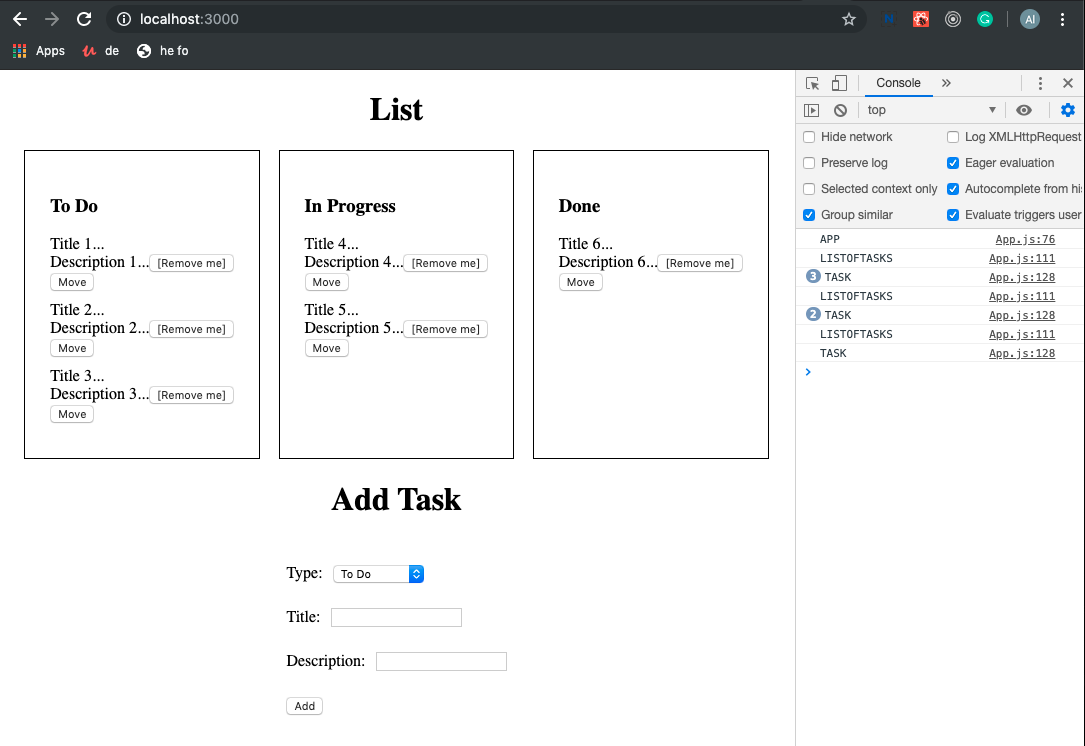
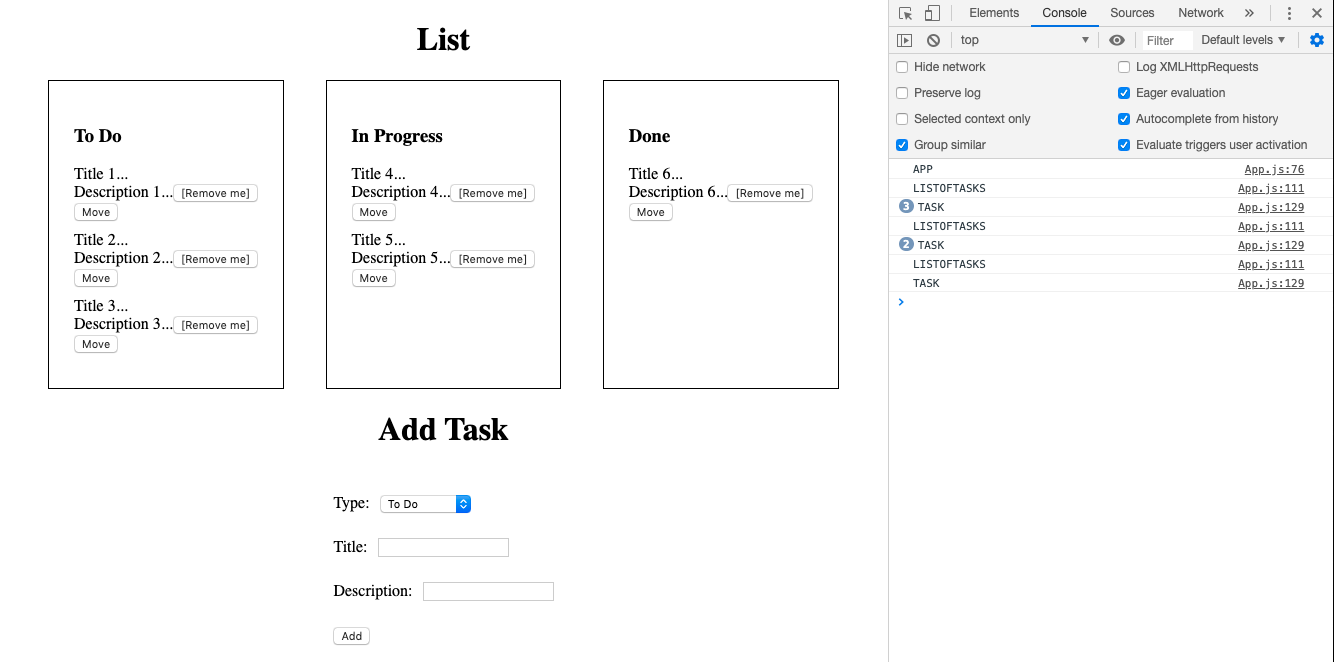
react.memo

diff --git a/src/App.js b/src/App.js
@@ -1,7 +1,7 @@
 import React, { Component } from 'react';
 import './App.css'
 
-class App extends Component {
+class App extends React.PureComponent {
 
  state = {
   toDo: [
@@ -107,7 +107,7 @@ listOfStatusKeys = Object.keys(this.listOfStatus)
  }
 }
 
-const ListOfTasks = props => {
+const ListOfTasks = React.memo(props => {
   console.log('LISTOFTASKS')
   return (
     <div className="column border padding25">
@@ -122,10 +122,10 @@ const ListOfTasks = props => {
         }
     </div>
   )
-}
+})
 
 
-const Task = props => {
+const Task = React.memo(props => {
   console.log('TASK')
   return (
     <div style={{ marginBottom: 10 }}>
@@ -142,7 +142,7 @@ const Task = props => {
       </div>
     </div>
   )
-}
+})
 
 const AddTask = props => {
 

diff --git a/README.md b/README.md
@@ -31,6 +31,24 @@ However, what happens if we remove a task...?
 
 ![After removing a task](images/removing-task.png)
 
-You can see that everything renders again, but that particular task. 
+You can verify that everything renders again, but that particular task. 
 
 In this small application we will not suffer "performance issues", yet, we can improve its efficiency. 
+
+So... Let's use `React.memo()`
+
+> React.memo is a higher order component. It’s similar to React.PureComponent but for function components instead of classes.
+If your function component renders the same result given the same props, you can wrap it in a call to React.memo for a performance boost in some cases by memoizing the result. This means that React will skip rendering the component, and reuse the last rendered result.
+By default it will only shallowly compare complex objects in the props object. If you want control over the comparison, you can also provide a custom comparison function as the second argument. [React](https://reactjs.org/docs/react-api.html)
+
+Once we render our app, if we remove a task...
+* `App` should render once
+* `ListOfTasks` should render once
+* `Task` should render...
+  *  If we remove the first one = length - 1. So if we have 8 tasks, after deleting `Task` will render 7 times.
+  * If we remove the last one `Task` will not re render since this action does not affect other parts of the `DOM`
+  * If we remove everything in between, example, task 3 in a list of 8 = length - task which in our example is 8 - 3 = 5. So, `Task` will render 5 times.
+
+Example of removing task 2 using `React.memo()`
+
+![After removing a task](images/removing-task-memo.png)
